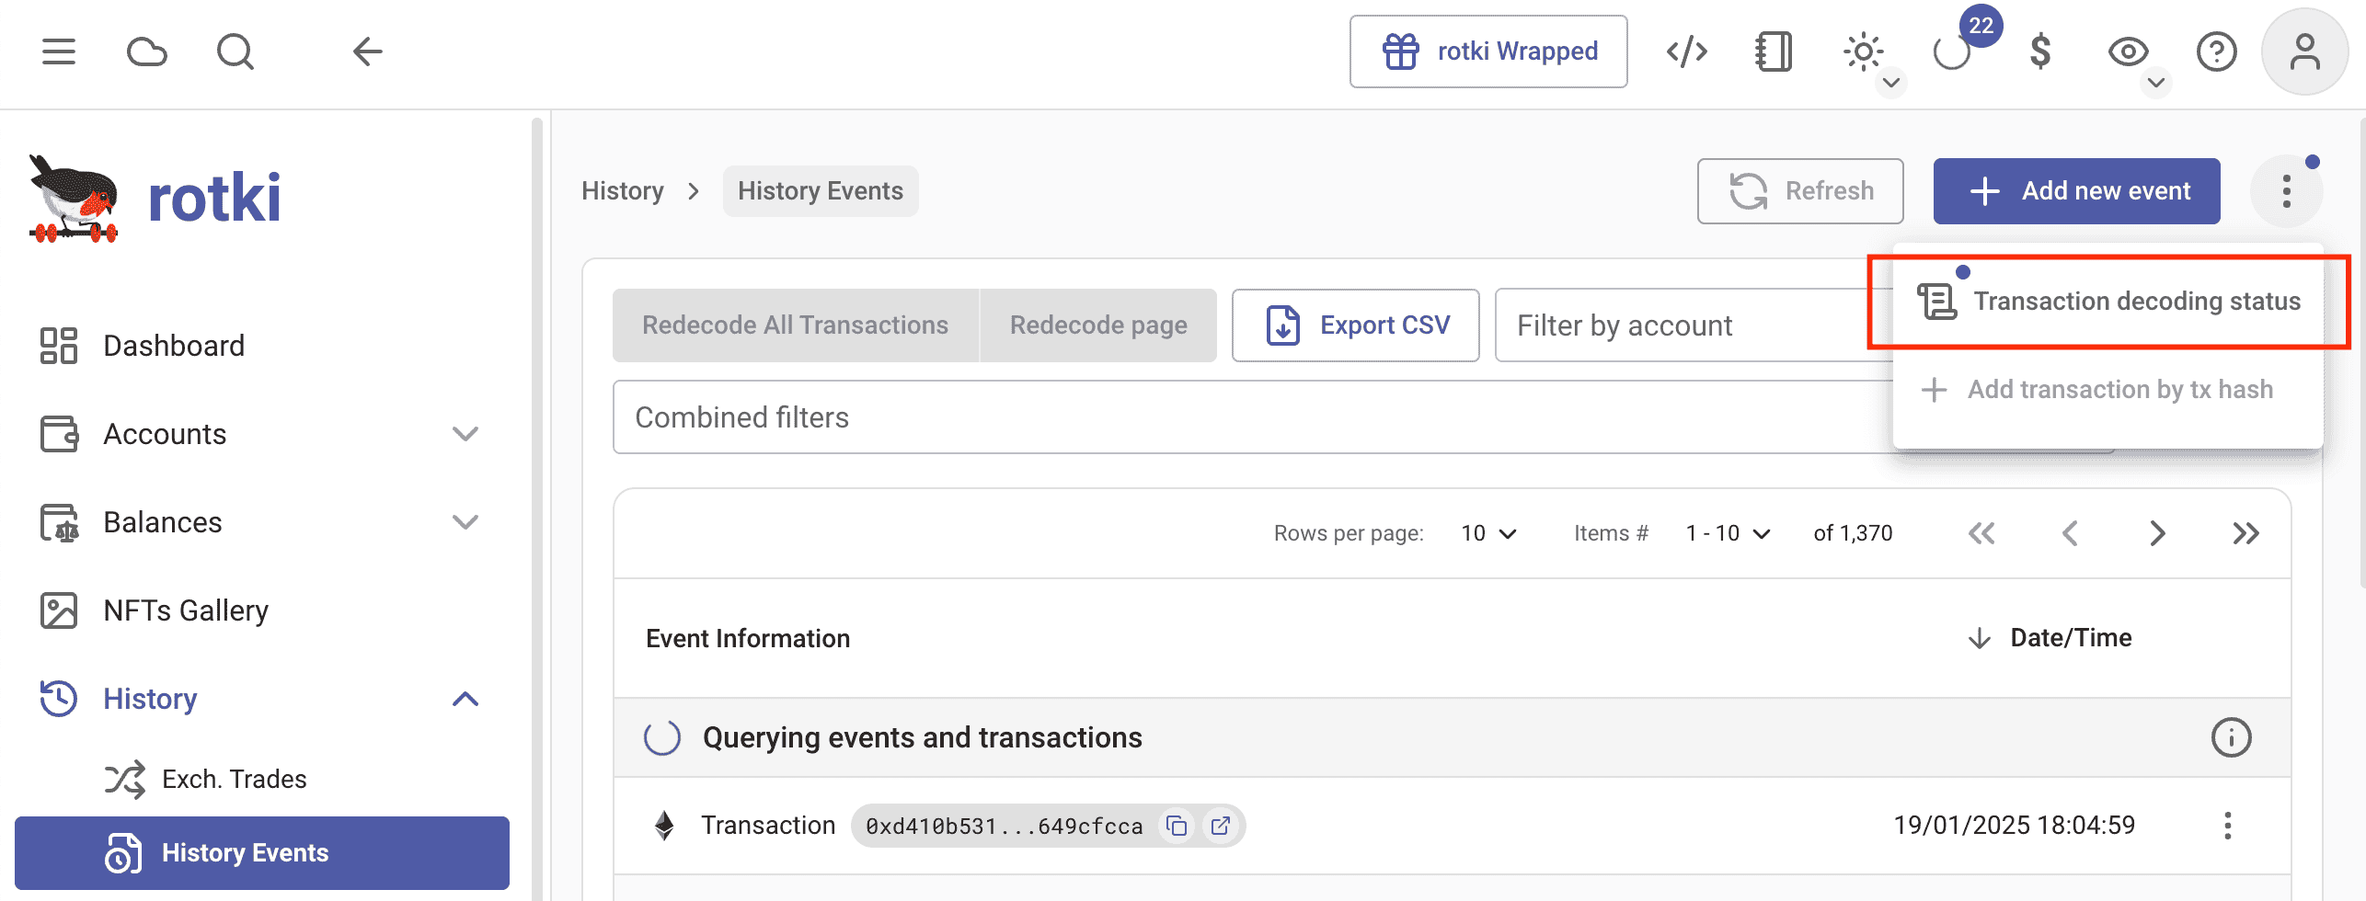
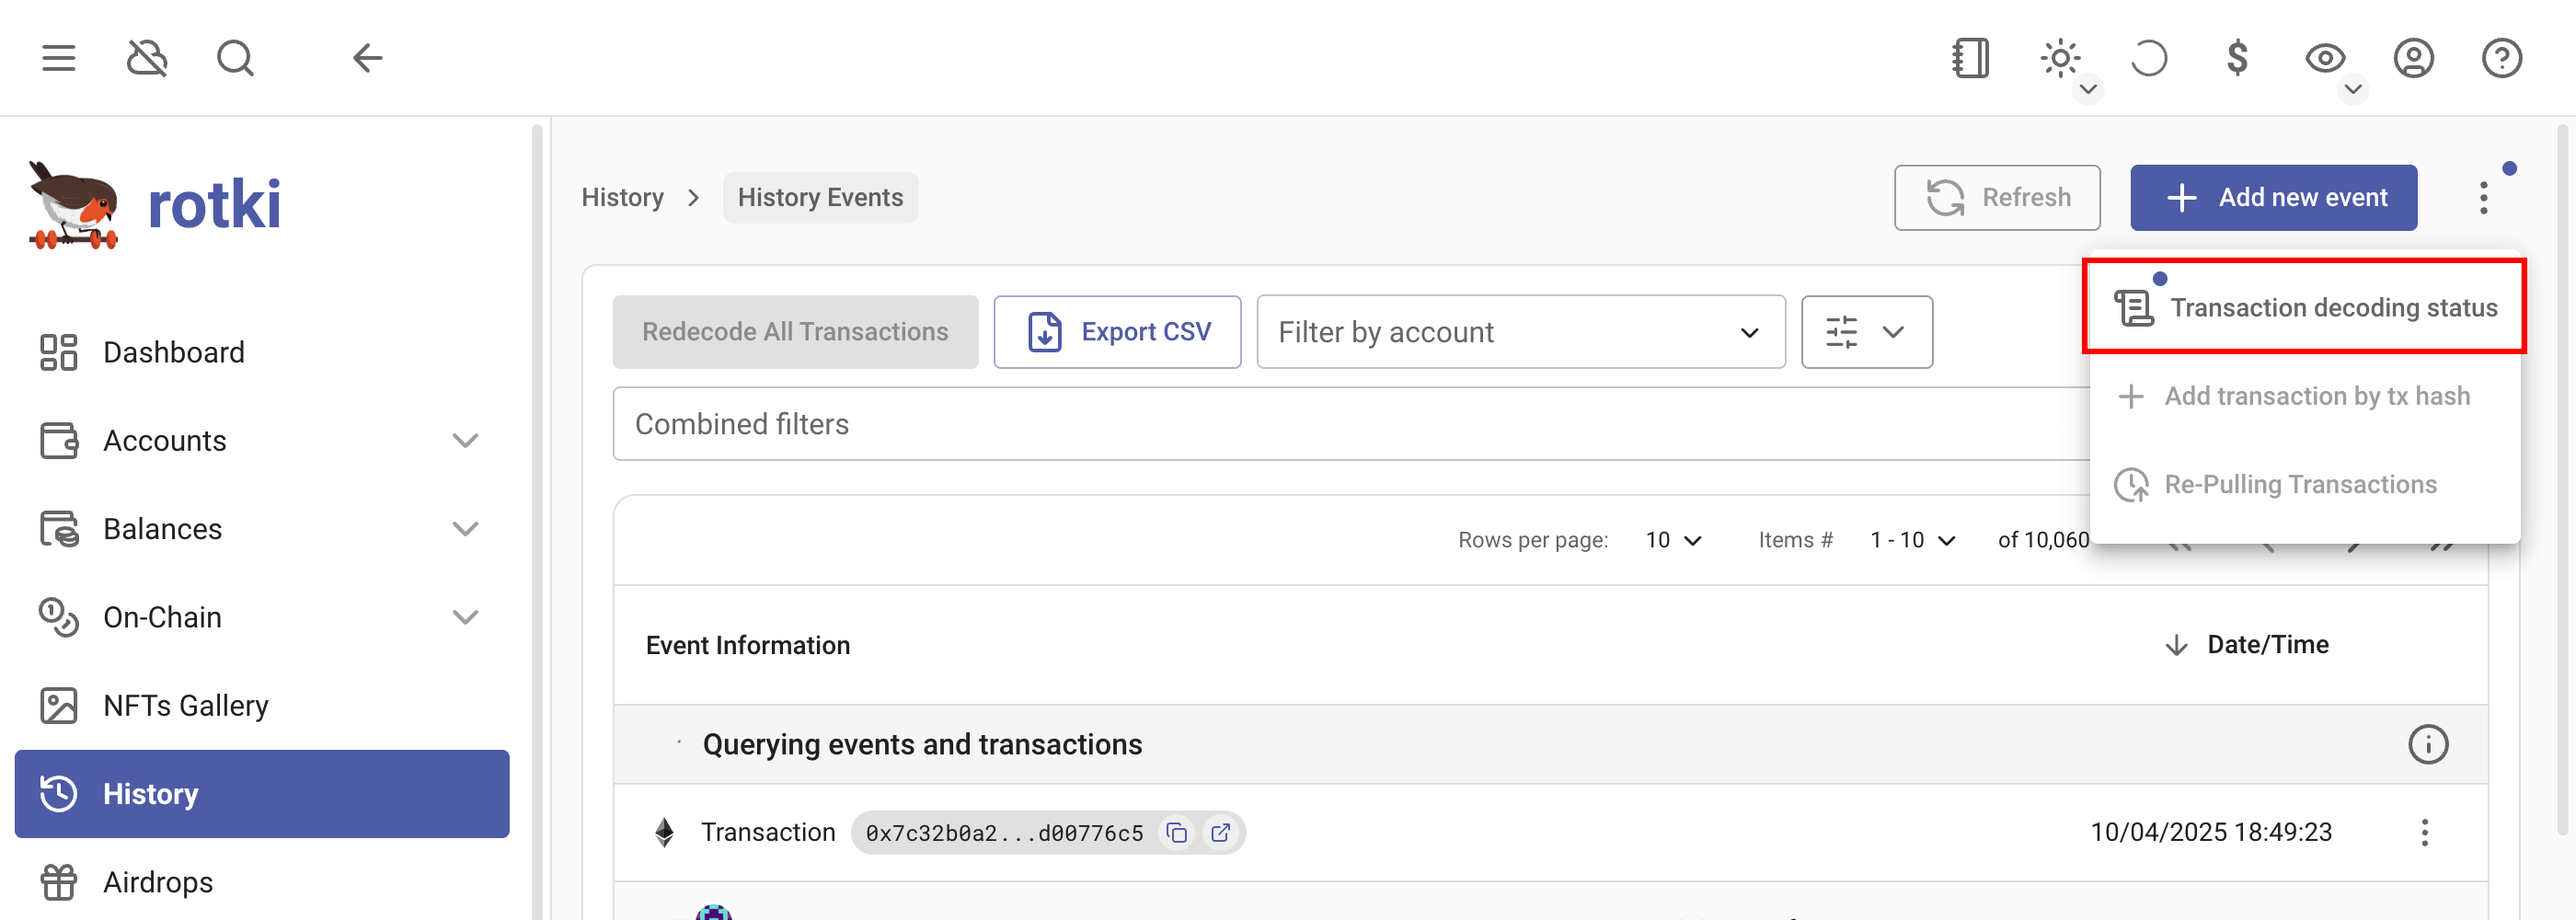
docs: update some changes in 1.39.0

diff --git a/usage-guides/historical-events.md b/usage-guides/historical-events.md
@@ -1,61 +1,8 @@
-# Historical events
-
-## Exchange Trades
-
-### Adding manual trades
-
-rotki will pull all your trade history from the exchanges whenever it needs it. But most of us have probably also done some OTC trades or taxable events at some point. Such events could even just be mining tokens, depending on your jurisdiction, participating in an ICO or getting paid in crypto.
-
-You can go to this page via `History → Exch. Trades`.
-Clicking on the "Add an external trade" button will open a menu like the following.
-
-![Add an external trade](/images/external_trade.png)
-
-To add a new trade, fill in all the fields and press the "Save" button.
-
-In the `amount` field you can register the amount of the base asset bought or sold. The `rate` field represents the rate of quote asset per base asset that was bought or sold. If there was a fee for the trade you should input it in the corresponding box and also enter the currency the fee was paid in. This field is optional so if the Fee was 0 you can leave this field empty. You can optionally provide additional notes or even links to blockchain explorers for each trade.
-
-In the Trades page you can see a table of all your external trades. You can edit or delete a trade by clicking on the appropriate icon at the rightmost part of each trade under the "Actions" column.
-
-Currently rotki tracks your balance by querying the different supported protocols, exchanges and blockchains. If you manually add information about a trade your balances will not be updated since trades are not consulted when updating the accounts' balances. If you want to manually update your balance for an asset please refer to the [manual balances section](/usage-guides/accounts-and-balances.html#manual-balances).
-
-### Filtering trades
-
-rotki supports filtering your trades with a combination of filters. All of the filters are applied at the same time
-limiting the trades to the ones that satisfy all the applied filters.
-
-![Filtering trades](/images/sc_history_trades_filter.png)
-
-You can filter using the following keys:
-
-- **base:** the base asset of the trades.
-- **quote:** the quote asset of the trades.
-- **action:** it can be buy or sell.
-- **start:** will only filter any trades from that date onwards.
-- **end:** will only filter any trades that happened before the selected date.
-- **location:** the location of the trade, e.g. kraken, uniswap etc.
-
-![Trade filter suggestions](/images/sc_history_trades_filter_suggestions.png)
-
-When selecting a filter, by clicking or typing the filter you will get some suggestions based on the available data.
-
-When a suggestion appears you can navigate to the next available suggestion using the tab button or you can also change
-the select suggestion using the up/down arrows in your keyboard. You can submit the selected filter by pressing enter.
-
-![Multiple trade filters applied](/images/sc_history_trades_filter_multi.png)
-
-After adding your filters you can press enter to close the menu.
-
-By default, all trades will be processed in accounting, but you can ignore unwanted trades, so they won't be processed.
-You can select the checkbox on the left part of each entry and click `Ignore`/`Unignore`.
-
-![Ignore trades](/images/sc_history_trades_ignore.png)
-
-## History Events
+# History events
 
 rotki is capable of pulling and decoding a bunch of different events, ranging from EVM chain transactions to exchanges events and more. When you visit the `History Events` section the process to obtain all the information will start. You will be able to check the status in an informative breakdown per blockchain address. Free users are limited to a number of latest events.
 
----
+## Supported events
 
 Currently, these events are detected automatically by rotki:
 
@@ -65,10 +12,11 @@ Currently, these events are detected automatically by rotki:
 - ETH block events
 - ETH deposit events
 - Asset movement events (deposits and withdrawals).
+- Swap events (trades).
 
 Additionally, you can add your custom events.
 
----
+## Events filtering
 
 History events can be filtered if you have a premium subscription activated. You can filter by:
 
@@ -86,19 +34,19 @@ History events can be filtered if you have a premium subscription activated. You
 - Only show customized events
 - ... more
 
-![History events query status breakdown](/images/events_query_process.png)
+![History events query status](/images/events_query_process.png)
 
-### Ignore events in accounting
-
-By default, all events will be processed in accounting, but you can ignore unwanted events, so they won't be processed. You can click on the three dots to display the options for the group of events, and click `Ignore events in accounting`/`Unignore events in accounting`.
-
-### Export History Events as CSV
+## Export history events as CSV
 
 Events can be exported as CSV, click on `Export CSV` button and accept prompt to download exported events.
 
 ![Button to download events as csv](/images/events_csv_export.png)
 
-### Redecoding EVM transactions
+## Ignore events in accounting
+
+By default, all events will be processed in accounting, but you can ignore unwanted events, so they won't be processed. You can click on the three dots to display the options for the group of events, and click `Ignore events in accounting`/`Unignore events in accounting`.
+
+## Redecoding EVM transactions
 
 It is possible that you need to redecode events for an EVM transaction. To do that you have two options. The first of them is to click on the three dots to display the options for an EVM transaction and click on `Redecode events`. This will start the process to read the transaction's events again and try to understand what happened in them. If there are any custom events in the transaction, there will be one more confirmation, asking whether to also reset these custom events or not.
 
@@ -118,17 +66,27 @@ You will see the status of the EVM events redecoding.
 
 EVM Transactions and the events can be deleted, but to restore them you will have to either purge all transactions or add by the transaction hash.
 
-### Add transaction by hash
+## Delete event
+
+![Menu to delete EVM transactions events](/images/delete_transaction_events.png)
+
+## Add transaction by hash
 
 ![Add transaction by hash](/images/add_tx_by_hash.png)
 
 If you want to add a transaction that was either deleted or for some reason missed, or was not found by rotki, you can add it by transaction hash by clicking the menu as seen in the picture.
 
-![Menu to delete EVM transactions events](/images/delete_transaction_events.png)
+## Re-Pulling Transactions
+
+You can re-pull EVM transactions for a specific account within a selected time range, in case any past issues prevented events from being retrieved properly.
+
+## Missing accounting rule
 
 If you see this warning button, it means the event won't be processed correctly in accounting. It could be due to improper decoding or a missing accounting rule for that event. You can fix it by editing the event or adding the missing accounting rule. You can also edit the events if they have special meaning to you, such as OTC trades or transfers between accounts.
 
 ![The button indicates that the event won't be processed correctly.](/images/event_not_processed.png)
+
+## Add / edit events
 
 There are 6 types of events in rotki:
 
@@ -180,6 +138,8 @@ Here the non obvious fields are:
 == Asset Movement Event
 ![Asset movement event form](/images/events_asset_movement_form.png)
 
+== Swap Event
+![Swap event form](/images/events_swap_event_form.png)
 :::
 
 For history event, and EVM history event, if any event was not decoded the way you expected it to be, you can always customize events using the settings described above or file a bug report on our github repository / in our discord server. The customizations that you make also affect how events are processed in accounting.

diff --git a/usage-guides/assets.md b/usage-guides/assets.md
@@ -3,29 +3,9 @@
 ## Inspecting list of assets
 
 You can now manage the list of supported assets by your local rotki instance.
-You can inspect the list of all supported assets, edit them, delete them or add new ones. They're divided into 3 sections; `Assets`, `Custom Assets`, and more sections (consist of `Manage CEX (Centralized Exchange) Mapping` and `Newly Detected Tokens` section).
+You can inspect the list of all supported assets, edit them, delete them or add new ones. They're divided into 3 sections; `Assets`, `Custom Assets`, and more sections (consist of `Manage CEX (Centralized Exchange) Mappings`, `Manage Counterparty Mappings`, `Newly Detected Tokens` and `Missing CEX Mappings` section).
 
 ![Manage the list of assets](/images/rotki_manage_assets.png)
-
-## Whitelisting of ignored assets
-
-Spam assets are a plague in EVM chains. rotki has an automatic algorithm trying to match assets as spam to not bother the user with automatically ignoring them. You can see all ignored assets in `Manage Assets → Assets` and filter by ignored. A problem with automatic algorithms marking something as spam is that mistakes can be made and a legit token may be ignored.
-
-![Filter ignored assets](/images/asset_filter_ignored.png)
-
-To solve this problem we added a whitelist which you can add assets to as can be seen below. Once an asset is added to the whitelist it will be removed from the ignore list and the automatic algorithm will not mark it as spam in the future.
-
-![Whitelist asset](/images/asset_whitelist_menu.png)
-
-## Whitelisting and Re-detecting Missing Tokens
-
-If a token doesn't appear in your balances, there are several ways to troubleshoot this. First you should check if it's been automatically or manually ignored. And then run a manual token detection.
-
-### Check Token is not Ignored or Marked as Spam
-
-Go to the `Manage Assets -> Assets page`. Use the search to find the token by name or address. Verify if the token is ignored. If ignored, unignore it. If you did not ignore it on purpose click to whitelist it so the spam detection algorithm does not falsely flag it as spam.
-
-![Example of managing assets and whitelisting a token in the Manage Assets page.](/images/manage-assets.png)
 
 ### Token Detection Methods
 
@@ -91,6 +71,12 @@ Users can link assets on exchanges to those recognized by rotki. If you encounte
 
 ![Manage centralized exchange asset mapping](/images/rotki_manage_cex_mapping.png)
 
+## Manage Counterparty Mappings
+
+Users can also link assets on any counterparty to those recognized by rotki.
+
+![Manage counterparty asset mappings](/images/rotki_manage_counterparty_mapping.png)
+
 ## Newly detected tokens
 
 All newly detected EVM tokens will appear in the list of newly detected tokens. You should inspect this list often and accept valid tokens and reject spam assets by adding them to the ignored tokens list.
@@ -137,3 +123,23 @@ You can also ignore assets by clicking asset icons anywhere on the app, that wil
 It is also possible to ignore NFTs. To do this navigate to `Balances → NFT Balances` and toggle the ignore NFT switch. Then you can use the filter to view the ignored NFTs.
 
 ![Ignoring NFTs](/images/rotki_ignore_nfts.png)
+
+## Whitelisting of ignored assets
+
+Spam assets are a plague in EVM chains. rotki has an automatic algorithm trying to match assets as spam to not bother the user with automatically ignoring them. You can see all ignored assets in `Manage Assets → Assets` and filter by ignored. A problem with automatic algorithms marking something as spam is that mistakes can be made and a legit token may be ignored.
+
+![Filter ignored assets](/images/asset_filter_ignored.png)
+
+To solve this problem we added a whitelist which you can add assets to as can be seen below. Once an asset is added to the whitelist it will be removed from the ignore list and the automatic algorithm will not mark it as spam in the future.
+
+![Whitelist asset](/images/asset_whitelist_menu.png)
+
+## Whitelisting and Re-detecting Missing Tokens
+
+If a token doesn't appear in your balances, there are several ways to troubleshoot this. First you should check if it's been automatically or manually ignored. And then run a manual token detection.
+
+### Check Token is not Ignored or Marked as Spam
+
+Go to the `Manage Assets -> Assets page`. Use the search to find the token by name or address. Verify if the token is ignored. If ignored, unignore it. If you did not ignore it on purpose click to whitelist it so the spam detection algorithm does not falsely flag it as spam.
+
+![Example of managing assets and whitelisting a token in the Manage Assets page.](/images/manage-assets.png)

diff --git a/usage-guides/onchain.md b/usage-guides/onchain.md
@@ -1,0 +1,35 @@
+# Onchain Transactions
+
+rotki allows you to perform onchain transactions by connecting your wallet (either through a browser wallet or WalletConnect).
+At the moment rotki only supports sending native tokens and ERC-20 tokens on all supported EVM chains.
+
+![Onchain send tokens](/images/onchain_send.png)
+
+::: info
+You can only send tokens from an address that is registered as an EVM account in rotki. Otherwise, rotki won't be able to retrieve the list of tokens.
+:::
+
+## Connect to a Browser Wallet from the Electron App
+
+If you're using rotki via the Electron app, you won't be able to connect directly to your browser wallet. Instead, rotki provides a bridge for this purpose. Follow these steps:
+
+1. Click the "Open Browser Wallet Bridge" button. This will open a page in your browser.
+   ![Open browser wallet bridge](/images/onchain_browser_wallet_bridge_1.png)
+
+2. On the bridge page, the first step is to connect it to your browser wallet.
+   ![Connect wallet in browser wallet bridge](/images/onchain_browser_wallet_bridge_2.png)
+
+3. Once connected, the page should display your wallet status.
+   ![Wallet connect bridge connected](/images/onchain_browser_wallet_bridge_3.png)
+
+4. Now you’ll need the `WalletConnect Pair URI`. Go back to the Electron app, click `Connect Wallet`, and choose `WalletConnect`.
+   ![Wallet Connect](/images/onchain_browser_wallet_bridge_4.png)
+
+5. Wait for the QR code to appear, then click `Copy Link`. The Pair URI will be copied to your clipboard. It will look something like this:
+   `wc:0579c1fee69aad512b6ef19a977a08f6c60b19415661cfa2882039da038a24fb@2?relay-protocol=irn&symKey=55d16a7cfc2198dfc1058254a7862c98aad401814bb86219041687d5b6de4020&expiryTimestamp=1744297123`
+   ![Copy Wallet Connect pairing URI](/images/onchain_browser_wallet_bridge_5.png)
+
+6. Return to the bridge page in your browser, paste the Pair URI, and click `Start Pairing`.
+   ![Wallet Connect bridge start pairing](/images/onchain_browser_wallet_bridge_6.png)
+
+You're now connected and can perform transactions from the Electron app.
